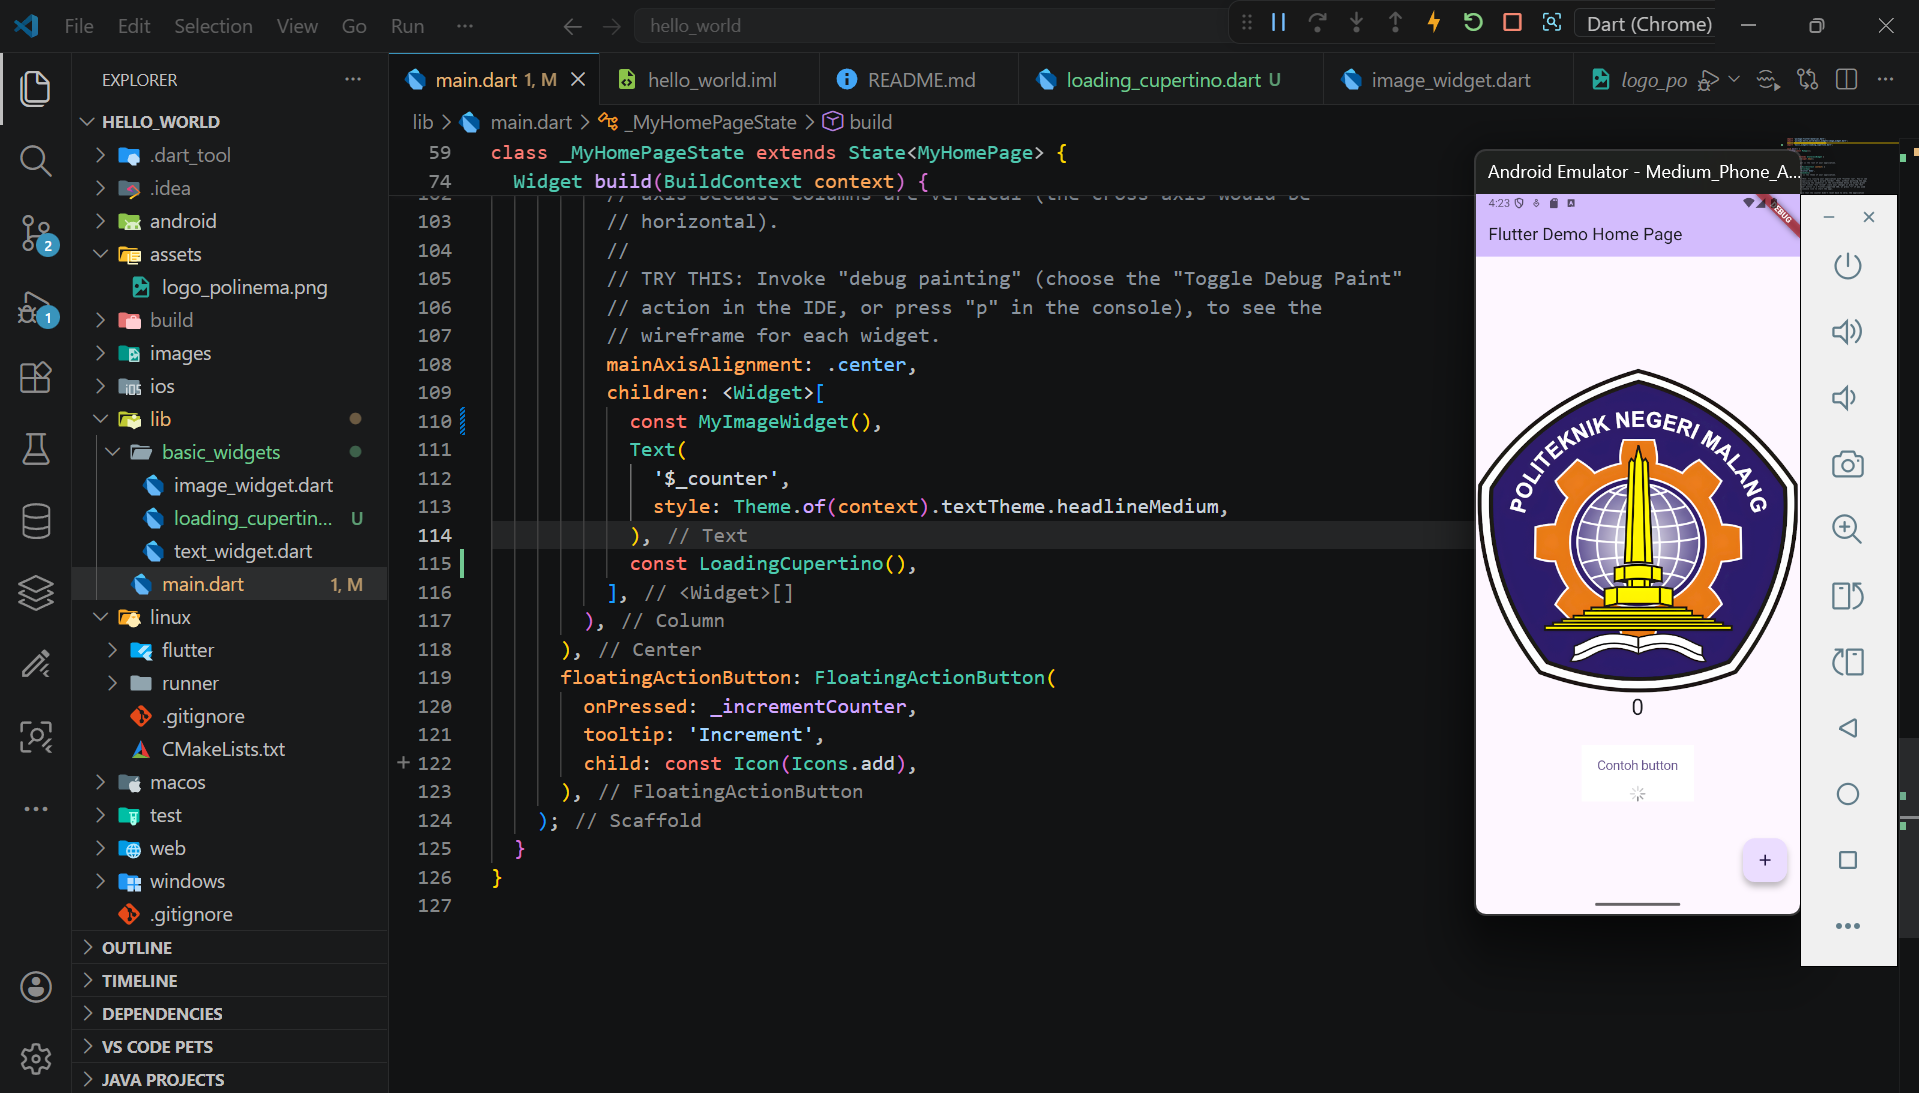
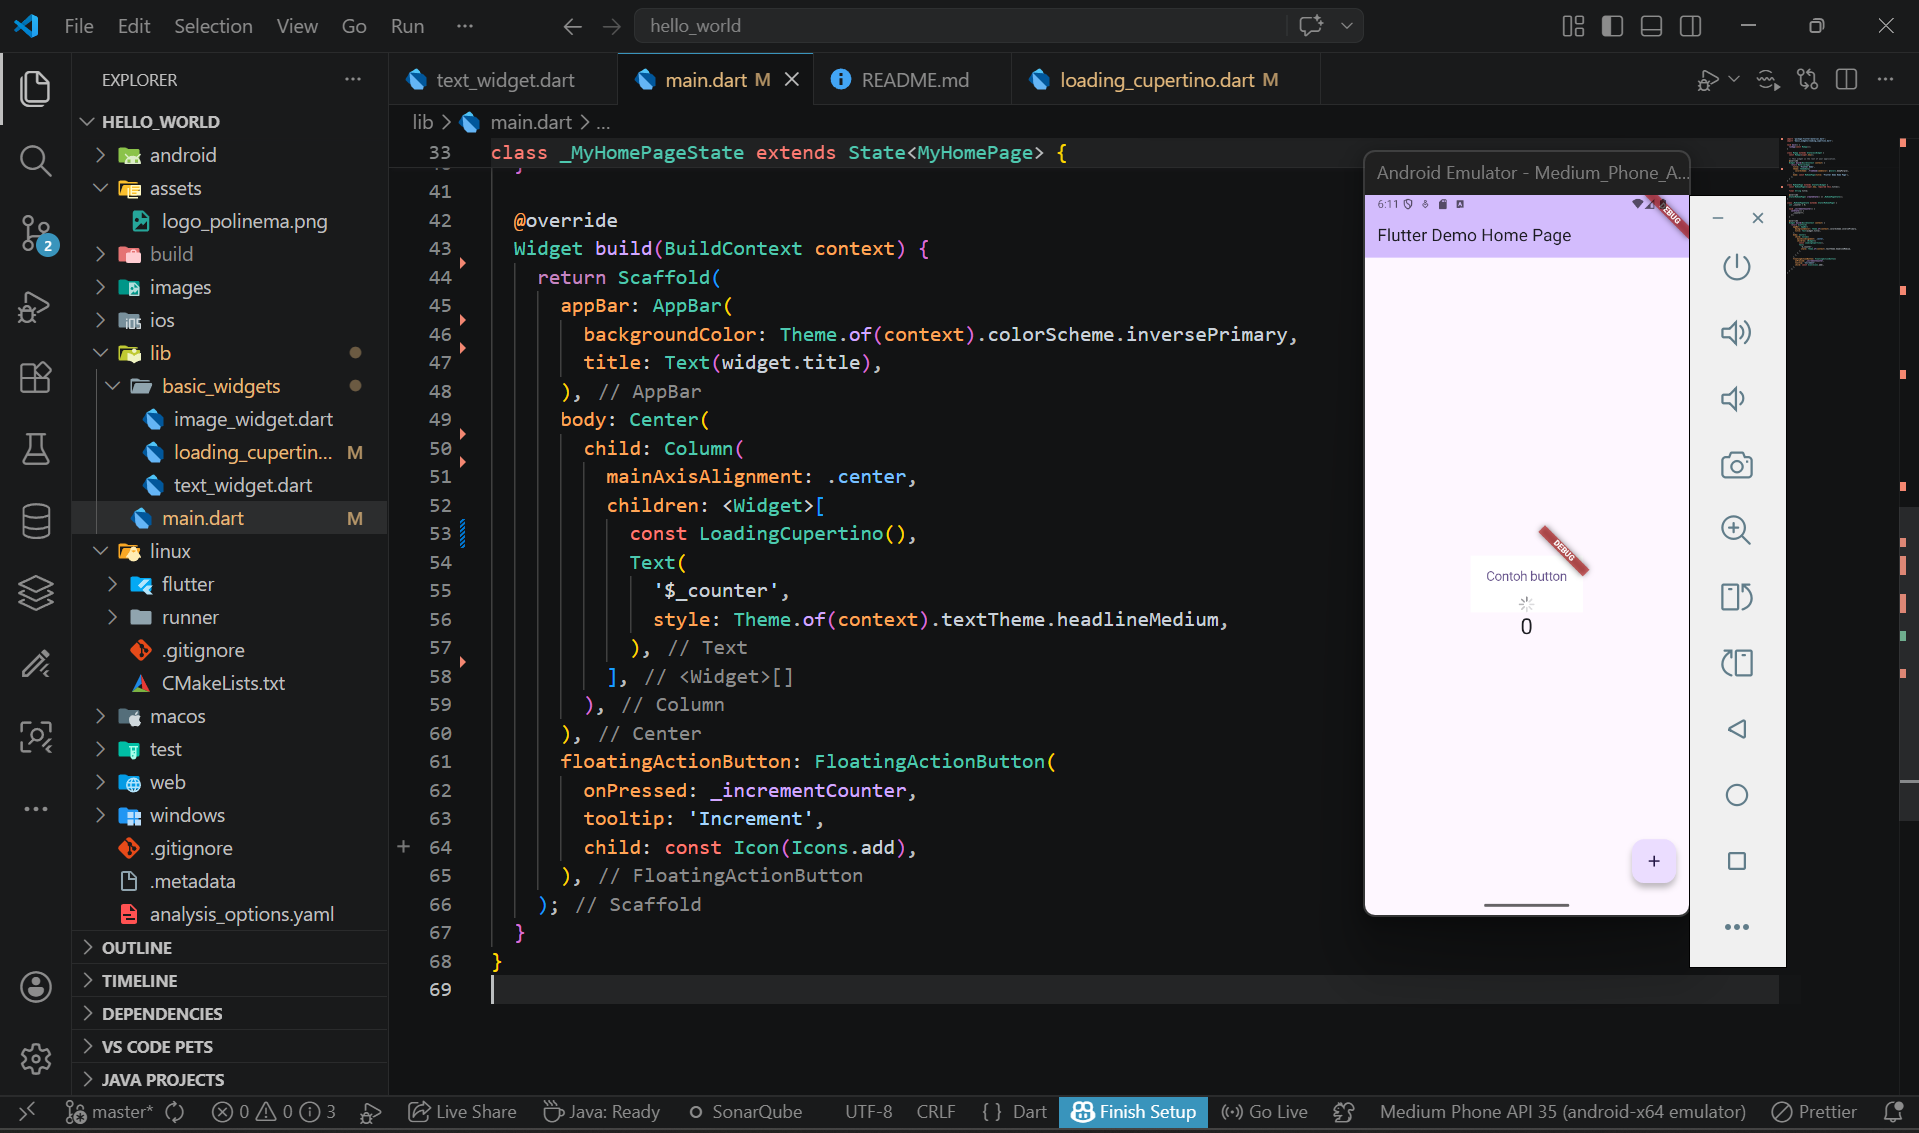
Perbaikan Langkah 1 Praktikum 5

diff --git a/lib/main.dart b/lib/main.dart
@@ -1,6 +1,4 @@
 import 'package:flutter/material.dart';
-import 'package:hello_world/basic_widgets/image_widget.dart';
-import 'basic_widgets/text_widget.dart';
 import 'basic_widgets/loading_cupertino.dart';
 
 void main() {
@@ -16,21 +14,6 @@ class MyApp extends StatelessWidget {
     return MaterialApp(
       title: 'Flutter Demo',
       theme: ThemeData(
-        // This is the theme of your application.
-        //
-        // TRY THIS: Try running your application with "flutter run". You'll see
-        // the application has a purple toolbar. Then, without quitting the app,
-        // try changing the seedColor in the colorScheme below to Colors.green
-        // and then invoke "hot reload" (save your changes or press the "hot
-        // reload" button in a Flutter-supported IDE, or press "r" if you used
-        // the command line to start the app).
-        //
-        // Notice that the counter didn't reset back to zero; the application
-        // state is not lost during the reload. To reset the state, use hot
-        // restart instead.
-        //
-        // This works for code too, not just values: Most code changes can be
-        // tested with just a hot reload.
         colorScheme: .fromSeed(seedColor: Colors.deepPurple),
       ),
       home: const MyHomePage(title: 'Flutter Demo Home Page'),
@@ -40,15 +23,6 @@ class MyApp extends StatelessWidget {
 
 class MyHomePage extends StatefulWidget {
   const MyHomePage({super.key, required this.title});
-
-  // This widget is the home page of your application. It is stateful, meaning
-  // that it has a State object (defined below) that contains fields that affect
-  // how it looks.
-
-  // This class is the configuration for the state. It holds the values (in this
-  // case the title) provided by the parent (in this case the App widget) and
-  // used by the build method of the State. Fields in a Widget subclass are
-  // always marked "final".
 
   final String title;
 
@@ -61,58 +35,26 @@ class _MyHomePageState extends State<MyHomePage> {
 
   void _incrementCounter() {
     setState(() {
-      // This call to setState tells the Flutter framework that something has
-      // changed in this State, which causes it to rerun the build method below
-      // so that the display can reflect the updated values. If we changed
-      // _counter without calling setState(), then the build method would not be
-      // called again, and so nothing would appear to happen.
       _counter++;
     });
   }
 
   @override
   Widget build(BuildContext context) {
-    // This method is rerun every time setState is called, for instance as done
-    // by the _incrementCounter method above.
-    //
-    // The Flutter framework has been optimized to make rerunning build methods
-    // fast, so that you can just rebuild anything that needs updating rather
-    // than having to individually change instances of widgets.
     return Scaffold(
       appBar: AppBar(
-        // TRY THIS: Try changing the color here to a specific color (to
-        // Colors.amber, perhaps?) and trigger a hot reload to see the AppBar
-        // change color while the other colors stay the same.
         backgroundColor: Theme.of(context).colorScheme.inversePrimary,
-        // Here we take the value from the MyHomePage object that was created by
-        // the App.build method, and use it to set our appbar title.
         title: Text(widget.title),
       ),
       body: Center(
-        // Center is a layout widget. It takes a single child and positions it
-        // in the middle of the parent.
         child: Column(
-          // Column is also a layout widget. It takes a list of children and
-          // arranges them vertically. By default, it sizes itself to fit its
-          // children horizontally, and tries to be as tall as its parent.
-          //
-          // Column has various properties to control how it sizes itself and
-          // how it positions its children. Here we use mainAxisAlignment to
-          // center the children vertically; the main axis here is the vertical
-          // axis because Columns are vertical (the cross axis would be
-          // horizontal).
-          //
-          // TRY THIS: Invoke "debug painting" (choose the "Toggle Debug Paint"
-          // action in the IDE, or press "p" in the console), to see the
-          // wireframe for each widget.
           mainAxisAlignment: .center,
           children: <Widget>[
-            const MyImageWidget(), 
+            const LoadingCupertino(), 
             Text(
               '$_counter',
               style: Theme.of(context).textTheme.headlineMedium,
             ),
-            const LoadingCupertino(),
           ],
         ),
       ),

diff --git a/lib/basic_widgets/loading_cupertino.dart b/lib/basic_widgets/loading_cupertino.dart
@@ -6,7 +6,8 @@ class LoadingCupertino extends StatelessWidget {
 
   @override
   Widget build(BuildContext context) {
-    return Container(
+    return MaterialApp(
+      home: Container(
         margin: const EdgeInsets.only(top: 30),
         color: Colors.white,
         child: Column(
@@ -18,7 +19,8 @@ class LoadingCupertino extends StatelessWidget {
             const CupertinoActivityIndicator(),
           ],
         ),
-      );
+      ),
+    );
   }
 }
 
